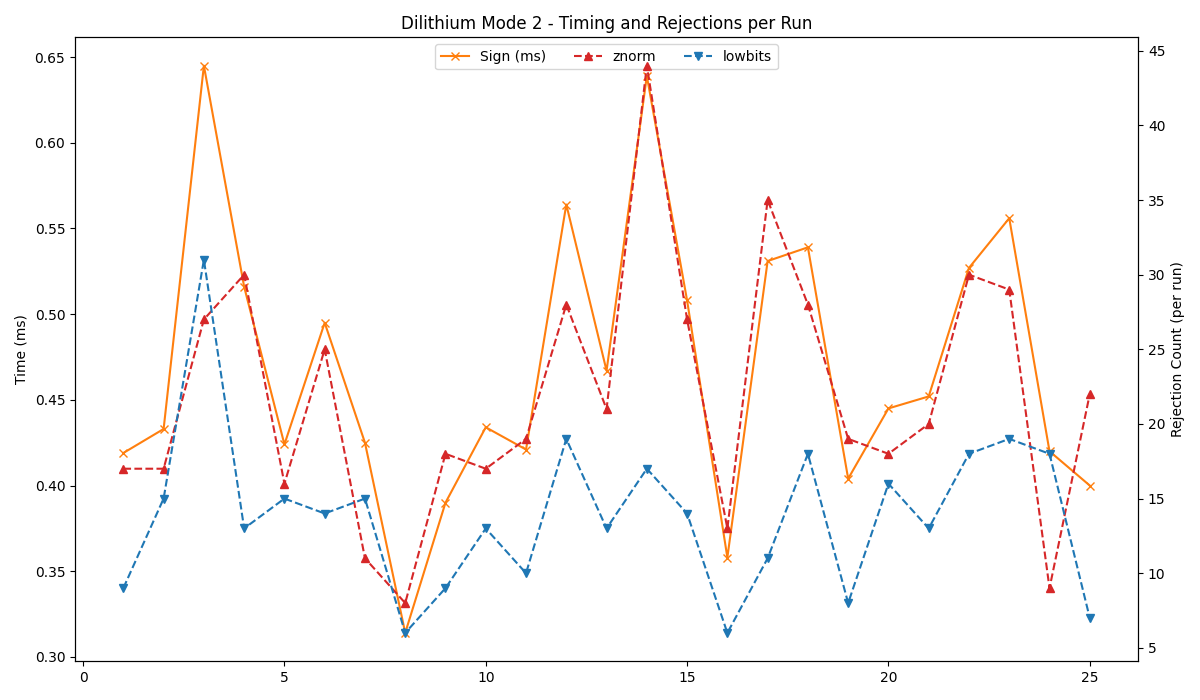
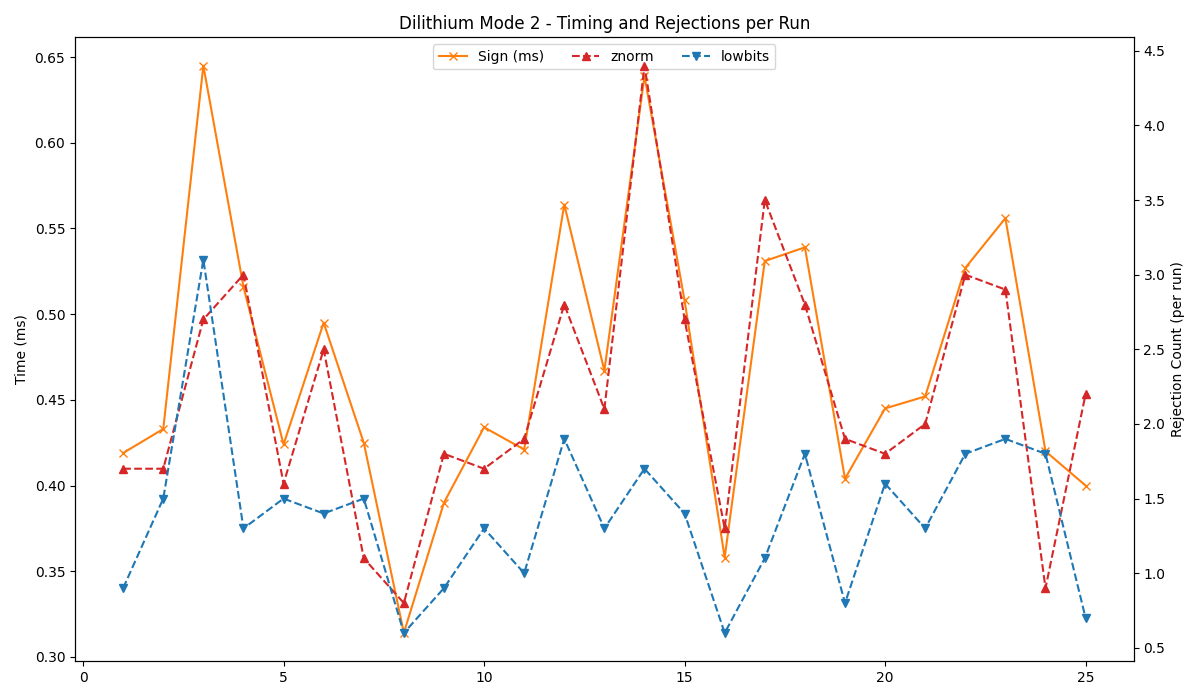
updated corrected graphs

diff --git a/Dilithium/scale_rejections_dilithium.py b/Dilithium/scale_rejections_dilithium.py
@@ -1,0 +1,71 @@
+import os
+import pandas as pd
+import matplotlib.pyplot as plt
+
+# Base directory containing the results
+base_dir = "results"
+columns_to_scale = ["znorm", "lowbits", "hintnorm", "hintcount"]
+
+def generate_graph(csv_path, mode):
+    try:
+        df = pd.read_csv(csv_path, parse_dates=['timestamp'])
+    except Exception as e:
+        print(f"Error reading {csv_path}:", e)
+        return
+
+    if df.empty:
+        print(f"CSV {csv_path} is empty, nothing to plot.")
+        return
+
+    df.sort_values('timestamp', inplace=True)
+    df['run'] = range(1, len(df) + 1)
+
+    plt.figure(figsize=(12, 7))
+    ax1 = plt.gca()
+
+    # Plot signing time on primary axis
+    ax1.plot(df['run'], df['sign'], marker='x', color='tab:orange', label='Sign (ms)')
+    ax1.set_ylabel('Time (ms)', color='black')
+
+    # Plot rejection counts on secondary axis
+    ax2 = ax1.twinx()
+    ax2.plot(df['run'], df['znorm'], marker='^', linestyle='--', color='tab:red', label='znorm')
+    ax2.plot(df['run'], df['lowbits'], marker='v', linestyle='--', color='tab:blue', label='lowbits')
+    # Uncomment below to include hint-based rejections:
+    # ax2.plot(df['run'], df['hintnorm'], marker='>', linestyle='--', color='tab:green', label='hintnorm')
+    # ax2.plot(df['run'], df['hintcount'], marker='<', linestyle='--', color='tab:purple', label='hintcount')
+    ax2.set_ylabel('Rejection Count (per run)', color='black')
+
+    plt.title(f'Dilithium Mode {mode} - Timing and Rejections per Run')
+
+    lines1, labels1 = ax1.get_legend_handles_labels()
+    lines2, labels2 = ax2.get_legend_handles_labels()
+    ax1.legend(lines1 + lines2, labels1 + labels2, loc='upper center', ncol=3)
+
+    plt.tight_layout()
+    graph_path = os.path.join(os.path.dirname(csv_path), "rejection_plot.png")
+    plt.savefig(graph_path)
+    plt.close()
+    print(f"Saved plot: {graph_path}")
+
+# Process each mode
+for mode_folder in os.listdir(base_dir):
+    mode_path = os.path.join(base_dir, mode_folder)
+    csv_path = os.path.join(mode_path, "dilithium_times.csv")
+
+    if not os.path.isfile(csv_path):
+        print(f"Skipped (missing file): {csv_path}")
+        continue
+
+    # Load and modify CSV
+    df = pd.read_csv(csv_path)
+    for col in columns_to_scale:
+        if col in df.columns:
+            df[col] = df[col] / 10.0
+
+    # Save modified CSV
+    df.to_csv(csv_path, index=False)
+    print(f"Updated: {csv_path}")
+
+    # Generate graph
+    generate_graph(csv_path, mode=mode_folder.replace("mode", ""))

diff --git a/Dilithium/test_timing.c b/Dilithium/test_timing.c
@@ -79,7 +79,7 @@ int main(void) {
     printf("Average key generation time: %.3f ms\n", (total_keygen_time / NUM_RUNS) * 1000.0);
     printf("Average signing time: %.3f ms\n", (total_sign_time / NUM_RUNS) * 1000.0);
     printf("Average verification time: %.3f ms\n", (total_verify_time / NUM_RUNS) * 1000.0);
-    printf("Number of rejections: %d znorm, %d lowbits, %d hitnorm and %d hitcount", total_znorm_rejections, total_lowbits_rejections, total_hitnorm_rejections, total_hitcount_rejections);
+    printf("Number of rejections: %1.f znorm, %1.f lowbits, %1.f hitnorm and %1.f hitcount", total_znorm_rejections/NUM_RUNS, total_lowbits_rejections/NUM_RUNS, total_hitnorm_rejections/NUM_RUNS, total_hitcount_rejections/NUM_RUNS);
 
 
     return 0;
